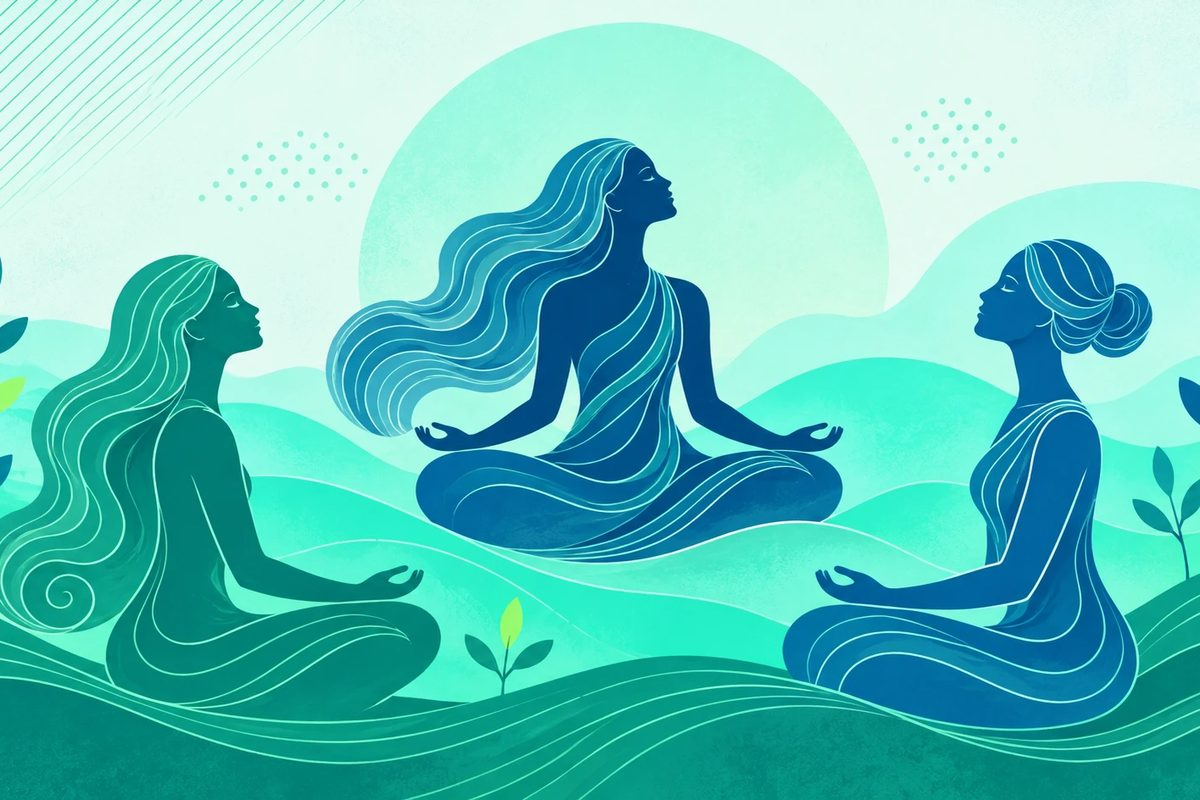
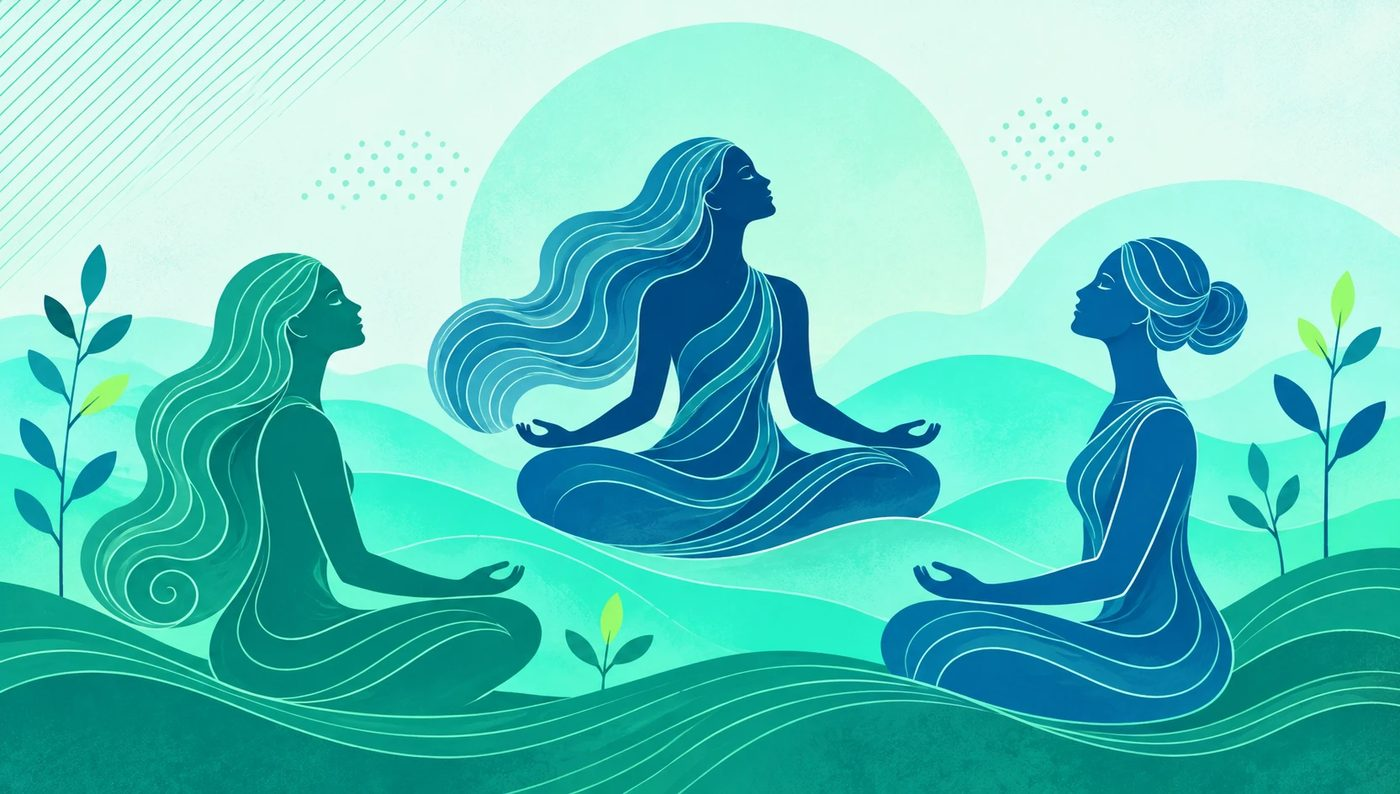
Meditazione: copertina intera, senza tagli
Claude-Session: https://claude.ai/code/session_016Ywt3maop4wG1bjJoETQC2

diff --git a/assets/css/style.css b/assets/css/style.css
@@ -971,3 +971,5 @@ footer a:hover { color: var(--acqua); }
 .meditazione-copertina[hidden] { display: none; }
 .approfondimenti.approfondimenti-tre { grid-template-columns: repeat(3, minmax(0, 1fr)); max-width: 1100px; }
 @media (max-width: 900px) { .approfondimenti.approfondimenti-tre { grid-template-columns: 1fr; max-width: 560px; } }
+/* Copertina della meditazione intera, senza tagli: il riquadro prende le sue proporzioni */
+.meditazione-video { aspect-ratio: 1665 / 944; max-width: 720px; }

diff --git a/src/meditazione.html b/src/meditazione.html
@@ -30,7 +30,7 @@
         Il tuo browser non supporta il video.
       </video>
       <button type="button" class="meditazione-copertina" id="avvia-meditazione" aria-label="Avvia la meditazione guidata">
-        <img src="/assets/img/meditazione-copertina.webp" width="1200" height="800" alt="">
+        <img src="/assets/img/meditazione-copertina.webp" width="1400" height="794" alt="">
         <span class="meditazione-play" aria-hidden="true"></span>
       </button>
     </div>
